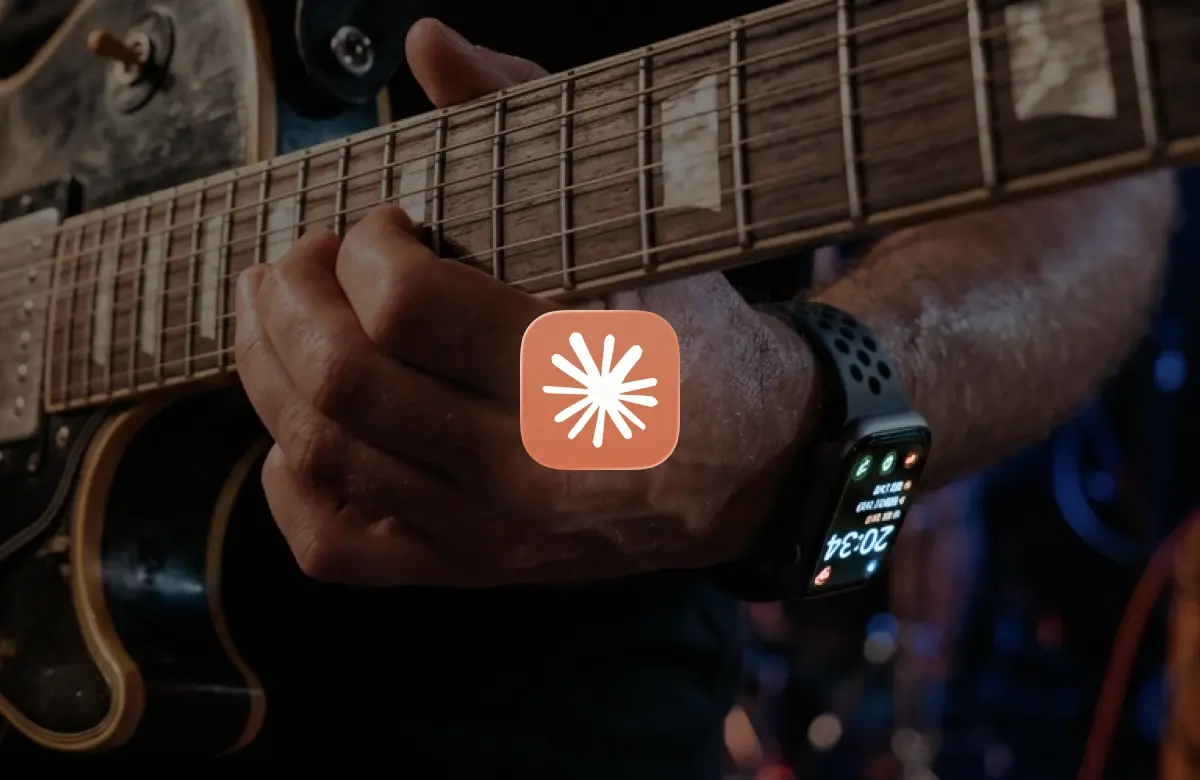
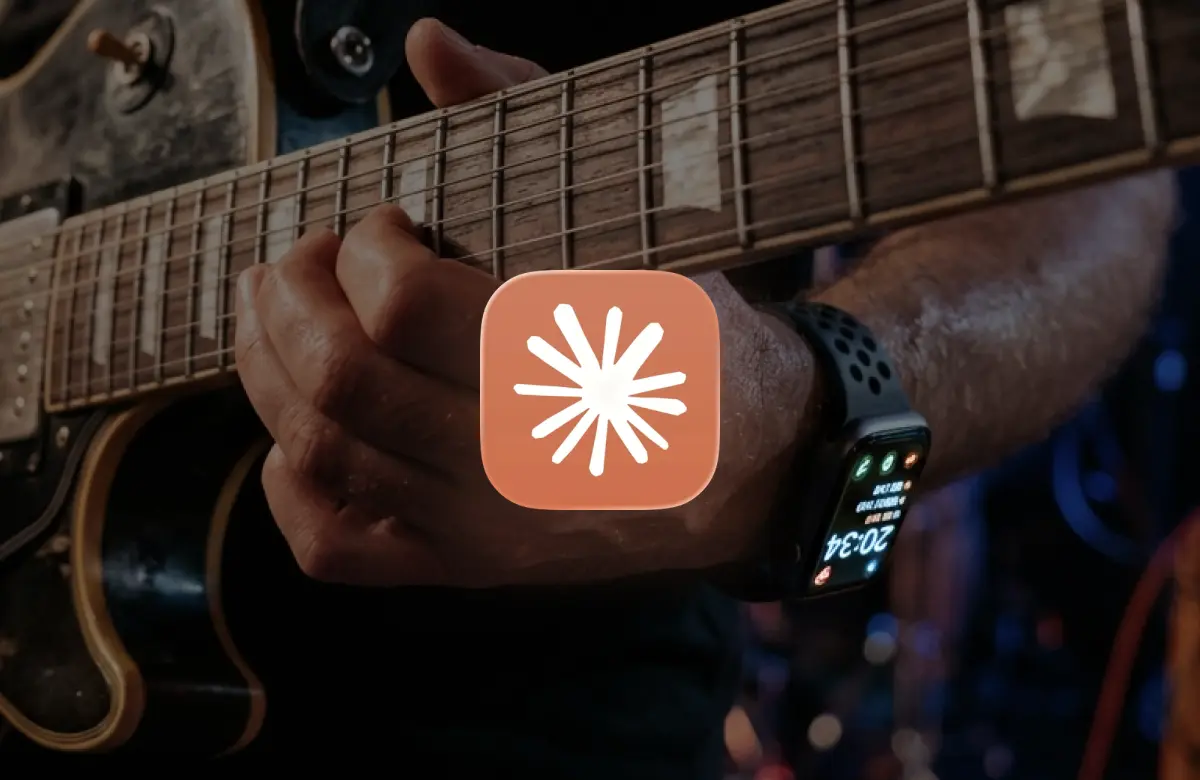
Update about cards, footer year, and post thumbnail
Hide about page value cards, bump footer copyright to 2026, and
swap the electric guitar post thumbnail image.

Changed region(s): [[0.37, 0.3385, 0.6167, 0.7077]]

diff --git a/src/components/footer.tsx b/src/components/footer.tsx
@@ -36,7 +36,7 @@ export default function Footer() {
       </div>
       <div className={styles.info}>
         <p className="typo-sub-10 text-gray-400">
-          © 2025 YOHANUX. All rights reserved.
+          © 2026 YOHANUX. All rights reserved.
         </p>
         <a
           href="mailto:yohanux@gmail.com"

diff --git a/src/app/about/page.tsx b/src/app/about/page.tsx
@@ -13,7 +13,7 @@ interface ValueCard {
   title: string;
 }
 
-const SHOW_CARDS = true;
+const SHOW_CARDS = false;
 
 const VALUE_CARDS: ValueCard[] = [
   { emoji: "💭", title: "INTP" },
